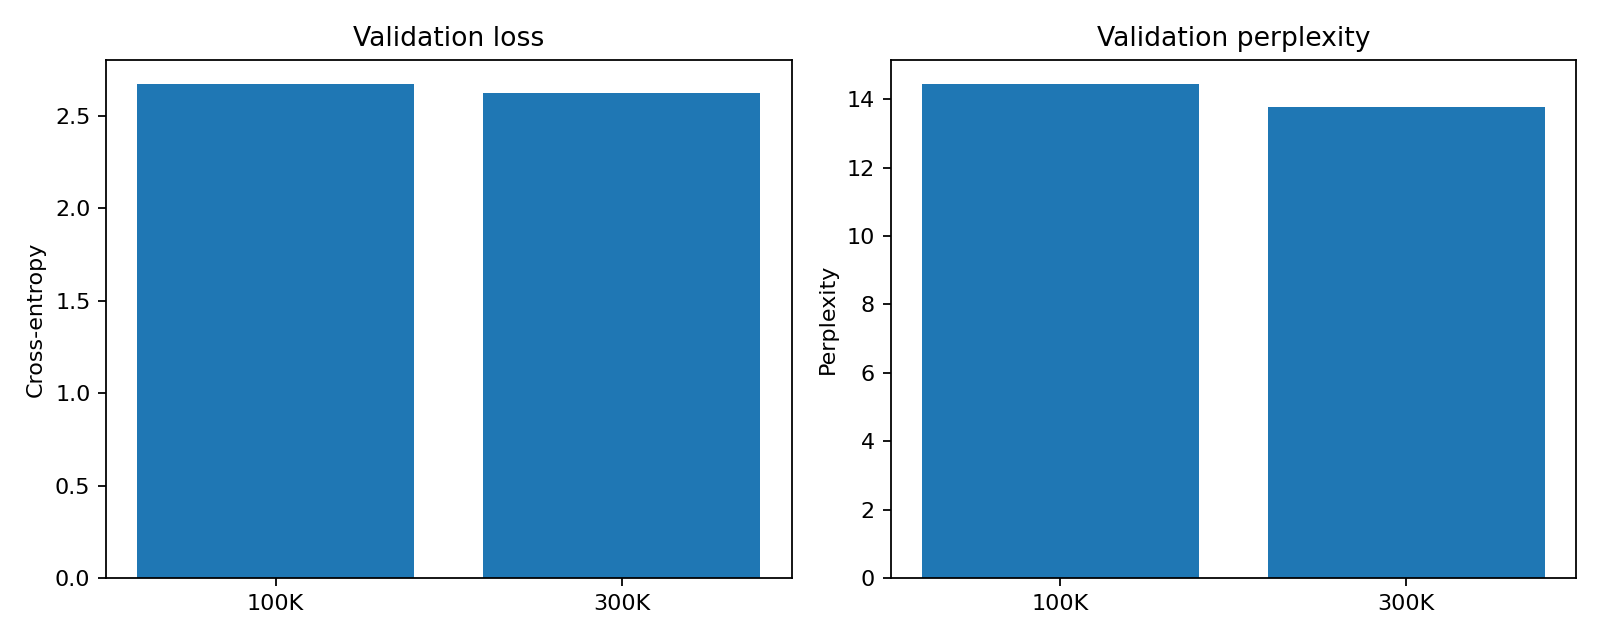
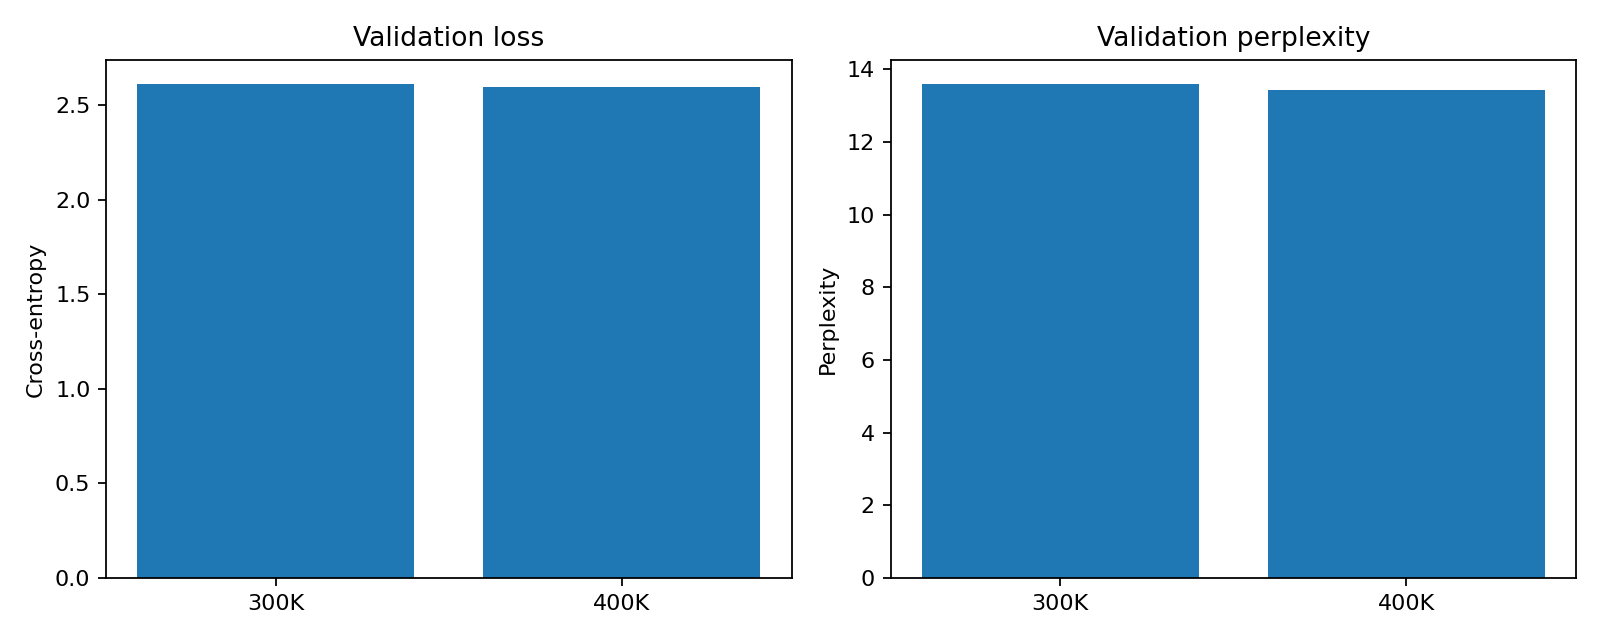
comp: comparing 300k and 400k steps training data

diff --git a/scripts/compare_checkpoints.py b/scripts/compare_checkpoints.py
@@ -17,8 +17,8 @@ from llm.gpt.model import GPTModel
 
 
 CHECKPOINTS = {
-    "100K": Path("checkpoints/gpt2_wikitext_100k.pt"),
-    "300K": Path("checkpoints/gpt2_wikitext_300k.pt"),
+    "300K": Path("checkpoints/gpt2_wikitext_300k.pt"), 
+    "400K": Path("checkpoints/gpt2_wikitext_400k.pt"),
 }
 
 VALIDATION_PATH = Path(
